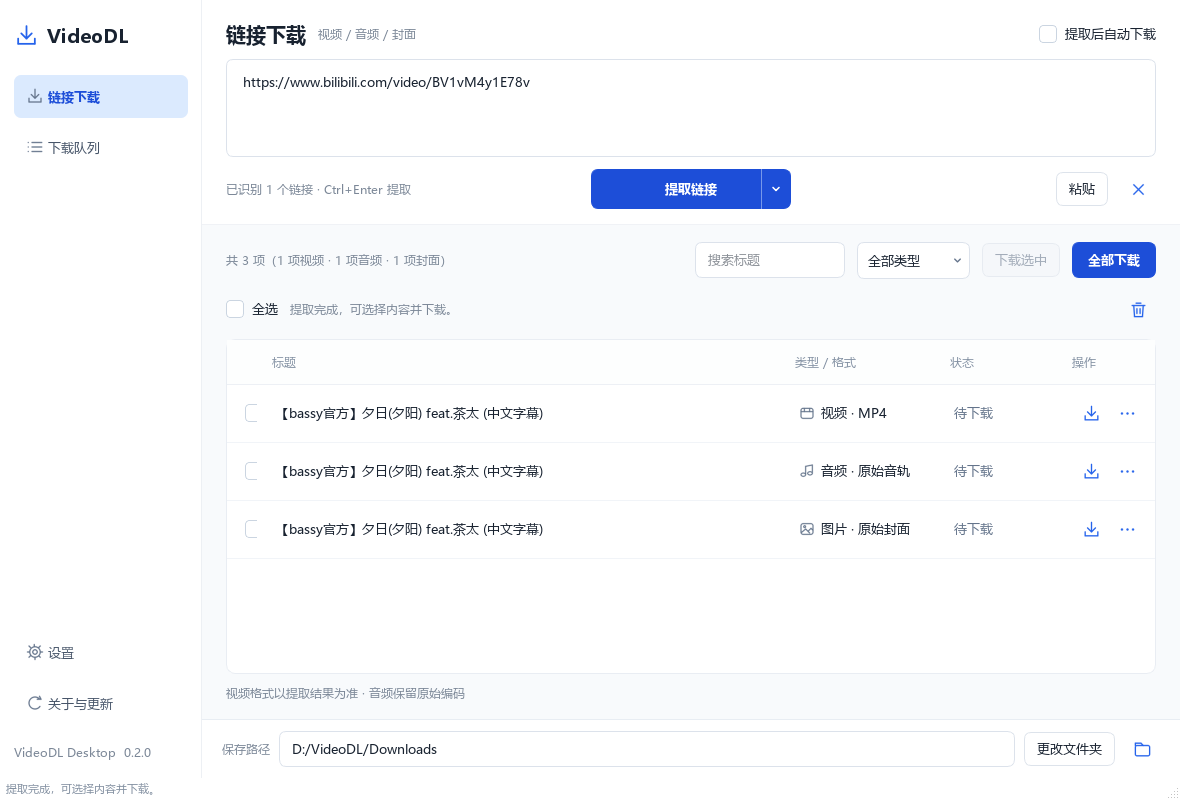
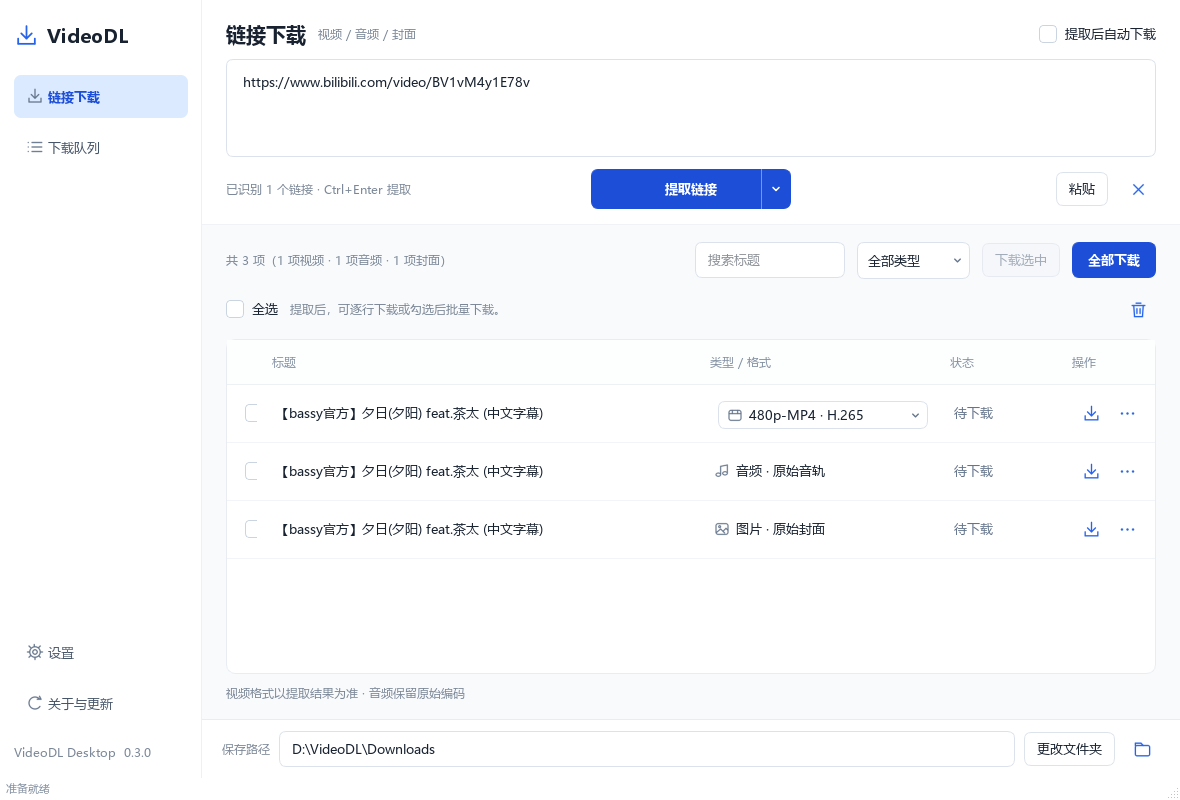
test(desktop): validate frozen quality selection and document measured speedup

diff --git a/desktop/benchmark.py b/desktop/benchmark.py
@@ -1,0 +1,77 @@
+"""Compare two portable GUI releases on the same local extract/download flow."""
+
+import argparse
+import functools
+import http.server
+import json
+import os
+import statistics
+import subprocess
+import threading
+import time
+from collections import Counter
+from pathlib import Path
+from urllib.parse import quote
+
+from .storage import save_json
+
+
+def main():
+    parser = argparse.ArgumentParser(description=__doc__)
+    for name in ("old", "new", "media", "output"):
+        parser.add_argument("--" + name, type=Path, required=True)
+    parser.add_argument("--trials", type=int, default=3)
+    args = parser.parse_args()
+    counts = Counter()
+
+    class Handler(http.server.SimpleHTTPRequestHandler):
+        def log_message(self, *_):
+            pass
+        def do_HEAD(self):
+            counts["HEAD"] += 1
+            super().do_HEAD()
+        def do_GET(self):
+            counts["GET"] += 1
+            super().do_GET()
+
+    handler = functools.partial(Handler, directory=str(args.media.resolve().parent))
+    server = http.server.ThreadingHTTPServer(("127.0.0.1", 0), handler)
+    threading.Thread(target=server.serve_forever, daemon=True).start()
+    trials = []
+    try:
+        for trial in range(args.trials):
+            for version, executable in (("old", args.old), ("new", args.new)):
+                root = args.output.resolve() / f"{version}-{trial + 1}"
+                root.mkdir(parents=True, exist_ok=False)
+                command, report = root / "input.json", root / "report.json"
+                save_json(command, {"url": f"http://127.0.0.1:{server.server_port}/" + quote(args.media.name),
+                    "output": str(root / "downloads"), "kind": "video"})
+                env = os.environ.copy()
+                env.update(QT_QPA_PLATFORM="offscreen", VIDEODL_DESKTOP_DATA=str(root / "appdata"),
+                    VIDEODL_GUI_SMOKE_INPUT=str(command), VIDEODL_GUI_SMOKE_REPORT=str(report))
+                env["PATH"] = str(Path(os.environ["SystemRoot"]) / "System32")
+                env.pop("PYTHONHOME", None)
+                env.pop("PYTHONPATH", None)
+                before = counts.copy()
+                started = time.perf_counter()
+                result = subprocess.run([str(executable.resolve())], env=env, capture_output=True, timeout=130)
+                seconds = round(time.perf_counter() - started, 3)
+                data = json.loads(report.read_text(encoding="utf-8")) if report.exists() else {}
+                if result.returncode or data.get("error") or not data.get("jobs") or data["jobs"][0]["status"] != "done":
+                    raise RuntimeError(f"{version} trial {trial + 1} did not complete")
+                item = {"version": version, "trial": trial + 1, "seconds": seconds,
+                    "requests": dict(counts - before), "cache_hit": data["jobs"][0].get("cache_hit")}
+                trials.append(item)
+                print(json.dumps(item), flush=True)
+        medians = {version: statistics.median(t["seconds"] for t in trials if t["version"] == version) for version in ("old", "new")}
+        output = {"media_bytes": args.media.stat().st_size, "trials": trials, "median_seconds": medians,
+            "reduction_percent": round(100 * (1 - medians["new"] / medians["old"]), 1)}
+        save_json(args.output / "benchmark.json", output)
+        print(json.dumps({key: value for key, value in output.items() if key != "trials"}), flush=True)
+    finally:
+        server.shutdown()
+        server.server_close()
+
+
+if __name__ == "__main__":
+    main()

diff --git a/desktop/tests/test_worker.py b/desktop/tests/test_worker.py
@@ -5,6 +5,7 @@ import sys
 import pytest
 
 from desktop.storage import save_json
+from desktop.tests.test_media import variant_server
 
 
 def test_worker_process_protocol_and_all_outputs(tmp_path, media_server):
@@ -68,3 +69,30 @@ def test_frozen_gui_extracts_selects_and_downloads(tmp_path, media_server):
     assert report["jobs"][0]["options"] == {"video": False, "audio": True, "cover": False}
     assert __import__("pathlib").Path(report["jobs"][0]["files"][0]["path"]).is_file()
     assert report["jobs"][0]["cache_hit"]
+
+
+@pytest.mark.skipif(not os.environ.get("VIDEODL_TEST_EXE"), reason="requires packaged executable")
+@pytest.mark.parametrize("manifest", ["master.m3u8", "manifest.mpd"])
+def test_frozen_gui_downloads_chosen_quality(tmp_path, variant_server, manifest):
+    from pathlib import Path
+    server, _ = variant_server
+    command = tmp_path / "quality-input.json"
+    save_json(command, {"url": server + "/" + manifest, "output": str(tmp_path / "下载"), "kind": "video", "quality_index": 1})
+    environment = os.environ.copy()
+    environment["PATH"] = str(Path(os.environ["SystemRoot"]) / "System32")
+    environment.pop("PYTHONPATH", None)
+    environment.pop("PYTHONHOME", None)
+    environment.update(QT_QPA_PLATFORM="offscreen", VIDEODL_DESKTOP_DATA=str(tmp_path / "appdata"),
+        VIDEODL_GUI_SMOKE_REPORT=str(tmp_path / "quality-report.json"), VIDEODL_GUI_SMOKE_INPUT=str(command))
+    result = subprocess.run([os.environ["VIDEODL_TEST_EXE"]], capture_output=True, env=environment, timeout=130)
+    assert result.returncode == 0
+    report = json.loads((tmp_path / "quality-report.json").read_text(encoding="utf-8"))
+    assert not report["error"], report
+    assert report["jobs"][0]["status"] == "done", report
+    assert report["jobs"][0]["cache_hit"]
+    row = next(row for row in report["results"] if row["kind"] == "video")
+    assert [f["resolution"] for f in row["formats"]] == [360, 180]
+    assert row["format_id"] == row["formats"][1]["id"]
+    video = report["jobs"][0]["files"][0]
+    probe = json.loads(subprocess.check_output(["ffprobe", "-v", "error", "-select_streams", "v:0", "-show_entries", "stream=width,height", "-of", "json", video["path"]]))
+    assert (probe["streams"][0]["width"], probe["streams"][0]["height"]) == (320, 180)

diff --git a/desktop/tests/test_media.py b/desktop/tests/test_media.py
@@ -35,6 +35,19 @@ def test_format_resources_refresh_without_exposing_signed_urls():
     assert "signature" not in public and "cdn.test" not in public and '"url"' not in public
 
 
+def test_intermediate_generation_jobs_are_not_download_options(tmp_path):
+    adapter = Adapter(tmp_path, common=False)
+    raw = {"api": {"mediaItems": [{"type": "video", "mediaQuality": "1080p", "mediaUrl": "https://jobs.test/high"},
+        {"type": "video", "mediaQuality": "720p", "mediaUrl": "https://jobs.test/low"}]}}
+    info = adapter.new_info(source="YouTubeVideoClient", title="真实视频标题", identifier="video-id", raw_data=raw,
+        download_url="https://cdn.test/actual.mp4")
+    adapter.parser.deadline = 0
+    adapter.parser.enrich([info], "https://www.youtube.com/watch?v=video-id")
+    formats = info._desktop_formats
+    assert len(formats) == 1
+    assert formats[0]["url"] == "https://cdn.test/actual.mp4"
+
+
 def test_cache_expires_evicts_and_reuses_opaque_objects(tmp_path, monkeypatch):
     import desktop.adapter
     now, calls = [0], []
@@ -113,6 +126,24 @@ def test_expired_cached_video_refresh_keeps_already_saved_cover(tmp_path, monkey
     assert result["status"] == "done"
     assert [f["kind"] for f in result["files"]] == ["cover", "video"]
     assert requested[-1] == {"video": True, "cover": False}
+
+
+def test_video_and_separate_audio_are_fetched_once(tmp_path, media_server, monkeypatch):
+    server, _ = media_server
+    adapter = Adapter(tmp_path, common=False)
+    infos = adapter.parse(server + "/sample.mp4")
+    infos[0].audio_download_url = server + "/audio.m4a"
+    infos[0].audio_ext = "m4a"
+    original, calls = adapter.fetch_media, []
+    def fetch(info, target, audio_only=False):
+        if audio_only:
+            calls.append(info.audio_download_url)
+        return original(info, target, audio_only)
+    monkeypatch.setattr(adapter, "fetch_media", fetch)
+    result = adapter.download(infos, {"video": True, "audio": True})
+    assert result["status"] == "done", result["errors"]
+    assert len(calls) == 1
+    assert {f["kind"] for f in result["files"]} == {"video", "audio"}
 
 
 @pytest.fixture(scope="module")

diff --git a/desktop/adapter.py b/desktop/adapter.py
@@ -364,10 +364,10 @@ class Adapter:
                     errors.append("视频：" + download_error(exc))
             if options.get("audio"):
                 try:
-                    if info.audio_download_url:
-                        audio = self.fetch_media(info, unique_path(folder / f"{title}.{extension(info.audio_ext, 'm4a')}"), audio_only=True)
-                    elif media:
+                    if media:
                         audio = self.extract_audio(media, folder / title)
+                    elif info.audio_download_url:
+                        audio = self.fetch_media(info, unique_path(folder / f"{title}.{extension(info.audio_ext, 'm4a')}"), audio_only=True)
                     else:
                         # Upstream temporary downloads stay on the chosen disk and
                         # are removed even when extraction fails.

diff --git a/desktop/parsing.py b/desktop/parsing.py
@@ -187,6 +187,10 @@ class Parsing:
             info._desktop_single = len(infos) == 1
             if not getattr(info, "_desktop_formats", None):
                 resources = raw_formats(info.raw_data if isinstance(info.raw_data, dict) else {})
+                if info.source == "YouTubeVideoClient" and isinstance(info.raw_data, dict) and info.raw_data.get("api"):
+                    # mediaItems from this provider are generation jobs. Expose
+                    # the SDK's already resolved resource, never a job address.
+                    resources = []
                 # Existing selected streams are usable even when no variants exist.
                 if not resources:
                     stream = info.download_url

diff --git a/desktop/resultview.py b/desktop/resultview.py
@@ -20,6 +20,13 @@ class ResultView:
     def render_results(self, *_):
         rows = self.visible_results()
         self.result_row_map = {}
+        # Replaced index widgets are deleted later by Qt. Hide them immediately
+        # so a refresh never paints stale controls over another result row.
+        for position in range(self.results_table.rowCount()):
+            for column in (0, 2, 4):
+                previous = self.results_table.cellWidget(position, column)
+                if previous:
+                    previous.hide()
         self.results_table.setRowCount(len(rows))
         for number, row in enumerate(rows):
             self.result_row_map[row["id"]] = number

diff --git a/desktop/pages.py b/desktop/pages.py
@@ -200,7 +200,7 @@ class WorkbenchPages:
         self.results_table = self.make_table(["", "标题", "类型 / 格式", "状态", "操作"])
         self.results_table.setColumnWidth(0, 38)
         self.results_table.horizontalHeader().setSectionResizeMode(1, QHeaderView.ResizeMode.Stretch)
-        for column, width in ((2, 205), (3, 122), (4, 90)):
+        for column, width in ((2, 240), (3, 122), (4, 90)):
             self.results_table.setColumnWidth(column, width)
         self.result_stack.addWidget(self.results_table)
         area.addWidget(self.result_stack, 1)

diff --git a/desktop/theme.py b/desktop/theme.py
@@ -128,6 +128,7 @@ QLineEdit, QPlainTextEdit, QComboBox, QSpinBox { background: white; border: 1px 
 QLineEdit:focus, QPlainTextEdit:focus { border: 1px solid #6495ed; }
 QPlainTextEdit#linkInput { padding: 10px 12px; }
 QComboBox { min-height: 19px; padding-right: 24px; }
+QComboBox#qualityChoice { min-height: 18px; padding: 4px 8px; padding-right: 24px; }
 QComboBox::drop-down { border: none; width: 23px; }
 QComboBox::down-arrow { image: url(ARROW_DARK_ASSET); width: 11px; height: 11px; }
 QCheckBox { spacing: 8px; background: transparent; }

diff --git a/desktop/VALIDATION_0.3.0.md b/desktop/VALIDATION_0.3.0.md
@@ -1,0 +1,29 @@
+# v0.3.0 验证记录
+
+## 性能比较
+
+Windows 11 x64，本机 HTTP 服务提供同一份 11,363 字节 MP4；以独立数据目录启动 v0.2.0 与 v0.3.0，交替运行三轮“GUI 提取 → 选择视频 → 下载 → 退出”。子进程 PATH 仅包含 Windows System32，依赖发行包内的运行时与媒体工具。
+
+| 轮次 | v0.2.0 | v0.3.0 |
+| --- | --- | --- |
+| 1 | 5.220 秒 | 2.974 秒 |
+| 2 | 3.568 秒 | 2.376 秒 |
+| 3 | 3.269 秒 | 2.356 秒 |
+| 中位数 | 3.568 秒 | 2.376 秒 |
+
+该固定场景的中位耗时减少 33.4%。三次新版下载均命中同一后台进程的解析缓存。新版额外探测实际分辨率，因此本场景的媒体 GET 次数从一次变为两次；主要提速来自复用进程与解析对象。网络平台耗时还受来源响应与媒体大小影响。
+
+复测工具：`python -m desktop.benchmark --help`。原始记录存放在运行者指定的输出目录，不收录用户链接及本地运行记录到发行包。
+
+## 功能验证
+
+- 测试媒体包含实际 HLS 与 DASH 多档清单。分别选择低档下载，并用 FFprobe 确认文件为 320×180、包含音轨，保存记录关联所选格式。
+- 便携包在精简 PATH 下验证启动、视频与音频下载、GUI 选择画质、解析缓存命中，以及 HLS/DASH 的实际输出。
+- 覆盖临时标题变化、抖音搜索页编号优先级、旧版失败记录自动恢复、缓存过期与淘汰、过期地址刷新后保留已保存封面、筛选后画质选择保留及取消清理。
+- Windows 测试验证虚拟环境启动器、真实 Python 进程及其子进程随引擎退出，避免遗留媒体工具。
+
+## 平台实测
+
+- 抖音：原失败链接取得真实标题、封面与 576p-MP4 元数据，媒体地址返回 HTTP 206 和有效视频字节。该视频约 144 分钟、约 1 GB，实测读取少量字节验证链接；完整下载流程使用测试媒体验证。
+- Bilibili：公开视频取得真实标题、封面及四个实际格式（480p/360p，各含 H.264/H.265）。缓存重复提取耗时低于记录精度 0.1 毫秒。
+- 其他平台共用格式描述、缓存与下载流程。中间生成任务地址不作为可下载画质，相关通道显示已经取得的实际媒体版本。

diff --git a/desktop/README.md b/desktop/README.md
@@ -69,10 +69,12 @@ uv pip install --python .venv/Scripts/python.exe -r desktop/requirements.lock py
 
 构建只收录所需的源码和资源，生成独立的发行用上游副本，清除源码内置的 Cookie、服务 token 和密钥默认值；相关解析器的可用性仍需单独验证。构建不会修改工作区的上游源码。发行包不包含 `.wvd` 身份文件、本机配置、日志和历史下载。`public-build-audit.json` 记录处理的字段名，`build-info.json` 记录构建版本，`THIRD-PARTY-NOTICES.txt` 保留依赖说明与来源。
 
-推送 `desktop-v0.2.0` 等版本标签会触发 Windows 测试和打包，并创建 GitHub 草稿发行版。验证草稿附件后发布。具体分支操作见 [MAINTAINING.md](MAINTAINING.md)。
+推送 `desktop-v0.3.0` 等版本标签会触发 Windows 测试和打包，并创建 GitHub 草稿发行版。验证草稿附件后发布。具体分支操作见 [MAINTAINING.md](MAINTAINING.md)。
 
 ## 验证范围
 
 自动测试使用本地 HTTP 服务提供的真实小型媒体，覆盖批量提取、类型筛选、勾选下载、自动下载偏好、结果恢复、条目重新匹配、三种输出、原始音频数据一致性、同名文件、部分失败、队列恢复和取消。打包版本在精简 PATH 下验证窗口启动、后台下载以及“提取→选择→下载”的完整 GUI 流程。
 
 平台解析能力继承自上游；各平台网站变化、登录状态和外部接口可用性都会影响结果。具体平台实测结果记录在每个发行版说明中。
+
+本机性能与验证记录见 [v0.3.0 验证记录](VALIDATION_0.3.0.md)。可用 `python -m desktop.benchmark --old 旧版exe --new 新版exe --media 小型MP4 --output 全新记录目录` 重复比较两个便携版本，默认交替运行三轮。
